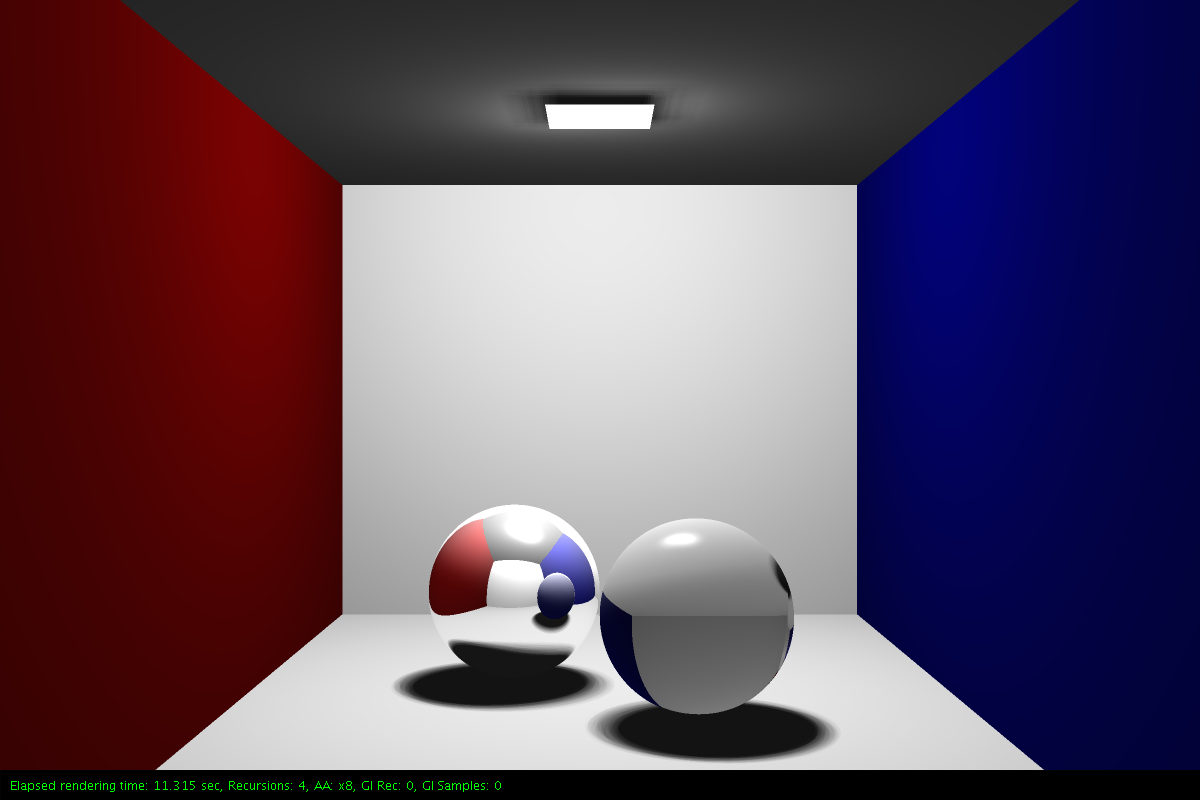
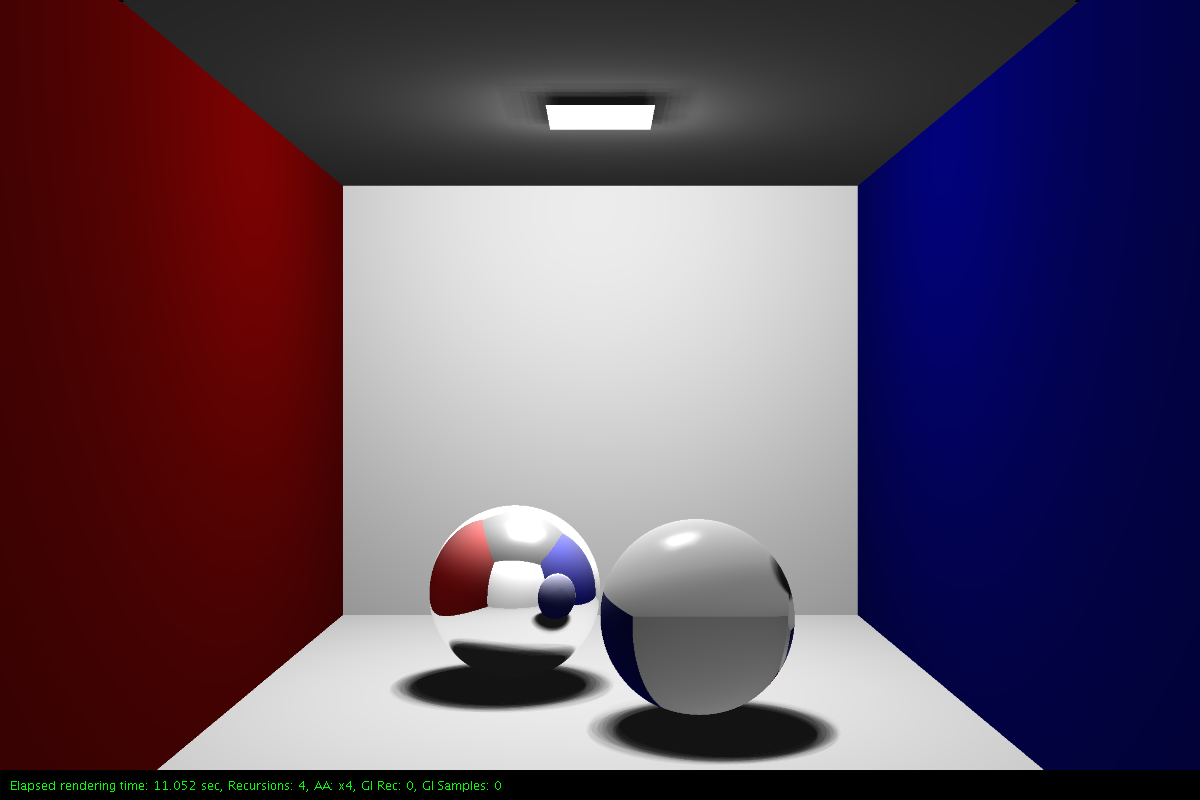
Fixing AA bug

diff --git a/VCG_Raytracer/src/raytracer/Raytracer.java b/VCG_Raytracer/src/raytracer/Raytracer.java
@@ -40,10 +40,10 @@ public class Raytracer {
     public static final int GIANT_BLOCK = 100;
 
     public static final int ANTI_ALIASING_NONE = 1;
-    public static final int ANTI_ALIASING_LOW = 2;
     public static final int ANTI_ALIASING_MEDIUM = 4;
-    public static final int ANTI_ALIASING_HIGH = 8;
+    public static final int ANTI_ALIASING_HIGH = 9;
     public static final int ANTI_ALIASING_INSANE = 16;
+    public static final int ANTI_ALIASING_GODLIKE = 25;
 
     public static final int MULTI_THREADING_NONE = 1;
     public static final int MULTI_THREADING_LOW = 2;
@@ -99,7 +99,7 @@ public class Raytracer {
         }
 
         mAntiAliasingSamples = antiAliasingSamples;
-        mAntiAliasingDim = (int) Math.sqrt(mAntiAliasingSamples);
+        mAntiAliasingDim = (int) Math.round(Math.sqrt(mAntiAliasingSamples));
         mAntiAliasingCounter = 1f / (mAntiAliasingDim);
 
         mBufferedImage = renderWindow.getBufferedImage();
@@ -147,7 +147,7 @@ public class Raytracer {
     }
 
     public void exportRendering(){
-        mRenderWindow.exportRendering(String.valueOf(stopTime(tStart)), mMaxRecursions, (int )mAntiAliasingSamples * 2, mDebug, mGiLevel, mGiSamples);
+        mRenderWindow.exportRendering(String.valueOf(stopTime(tStart)), mMaxRecursions, (int )mAntiAliasingSamples, mDebug, mGiLevel, mGiSamples);
     }
 
     private static double stopTime(long tStart){
@@ -167,34 +167,43 @@ public class Raytracer {
     }
 
     public void renderBlock(RenderBlock renderBlock, boolean withAA){
-        // Rows
-        for (int y = renderBlock.yMin; y < renderBlock.yMax; y++) {
-            // Columns
-            for (int x = renderBlock.xMin; x < renderBlock.xMax; x++) {
+        //Log.warn(this, "Render Block " + renderBlock.yMin + "to" + renderBlock.yMax + " and " + renderBlock.xMin + " to " + renderBlock.xMax);
 
-                RgbColor renderColor;
 
-                if(!withAA) {
-                    mAliasedColorMap[x * mAntiAliasingDim][y * mAntiAliasingDim] = this.sendPrimaryRay(new Vec2(x, y)).colors;
+            // Rows
+            for (int y = renderBlock.yMin; y < renderBlock.yMax; y++) {
+                // Columns
+                for (int x = renderBlock.xMin; x < renderBlock.xMax; x++) {
 
-                    // Fill already Edges Map black
-                    mEdgesMap[x][y] = new Vec3(0, 0, 0);
+                    RgbColor renderColor;
 
-                    // DEBUG ONLY
-                    //this.getRenderWindow().setPixel(this.getBufferedImage(), new RgbColor(mAliasedColorMap[x][y]), new Vec2(x, y));
-                }
-                else {
-                    if(mEdgesMap[x][y].equals(RgbColor.WHITE.colors)){
-                        renderColor = this.calculateAntiAliasedColor(y, x);
+                    if(!withAA) {
+                        mAliasedColorMap[x * mAntiAliasingDim][y * mAntiAliasingDim] = this.sendPrimaryRay(new Vec2(x, y)).colors;
+
+                        // Fill already Edges Map black
+                        mEdgesMap[x][y] = new Vec3(0, 0, 0);
+
+                        // DEBUG ONLY
+                        //this.getRenderWindow().setPixel(this.getBufferedImage(), new RgbColor(mAliasedColorMap[x][y]), new Vec2(x, y));
                     }
-                    else{
-                        renderColor = new RgbColor( mAliasedColorMap[x * mAntiAliasingDim][y * mAntiAliasingDim] );
-                    }
+                    else {
+                        try {
+                            if(mEdgesMap[x][y].equals(RgbColor.WHITE.colors)){
+                                renderColor = this.calculateAntiAliasedColor(y, x);
+                            }
+                            else{
+                                renderColor = new RgbColor( mAliasedColorMap[x * mAntiAliasingDim][y * mAntiAliasingDim] );
+                            }
 
-                    this.getRenderWindow().setPixel(this.getBufferedImage(), renderColor, new Vec2(x, y));
+                            this.getRenderWindow().setPixel(this.getBufferedImage(), renderColor, new Vec2(x, y));
+
+                        }catch (Exception e){
+                            Log.error(this, e.getMessage());
+                        }
+                    }
                 }
             }
-        }
+
     }
 
         private void createEdgeMap() {
@@ -218,23 +227,32 @@ public class Raytracer {
 
 
     public RgbColor calculateAntiAliasedColor(int y, int x) {
-
         Vec2 screenPosition;
-        Vec3 antiAlisedColor = new Vec3();
+        Vec3 antiAliasedColor = new Vec3();
+
+        int preX = (y * mAntiAliasingDim) - mAntiAliasingDim + 1;
+        int preY = (x * mAntiAliasingDim) - mAntiAliasingDim + 1;
 
         // Don't use random, because it produces artifacts!
-
-        for(float n = -0.5f; n < 0.5f; n += mAntiAliasingCounter){
-            for(float m = -0.5f; m < 0.5f; m += mAntiAliasingCounter){
+        // Avoid calculating the same color twice, so use the mAliasedColorMap
+        for(float n = -1f; n < 0f; n += mAntiAliasingCounter){
+            for(float m = -1f; m < 0f; m += mAntiAliasingCounter){
                 float xc = (x + m);
                 float yc = (y + n);
 
-                screenPosition = new Vec2(xc, yc);
-                antiAlisedColor = antiAlisedColor.add(this.sendPrimaryRay(screenPosition).colors.multScalar(1f / (mAntiAliasingSamples)));
+                int yA = preX + (int) (n * mAntiAliasingDim);
+                int xA = preY + (int) (m * mAntiAliasingDim);
+
+                if(mAliasedColorMap[xA][yA] == null) {
+                    screenPosition = new Vec2(xc, yc);
+                    mAliasedColorMap[xA][yA] = this.sendPrimaryRay(screenPosition).colors;
+                }
+
+                antiAliasedColor = antiAliasedColor.add(mAliasedColorMap[xA][yA].multScalar(1f / (mAntiAliasingSamples)));
             }
         }
 
-        return new RgbColor(antiAlisedColor);
+        return new RgbColor(antiAliasedColor);
     }
 
     private Ray createPrimaryRay(float x, float y){
